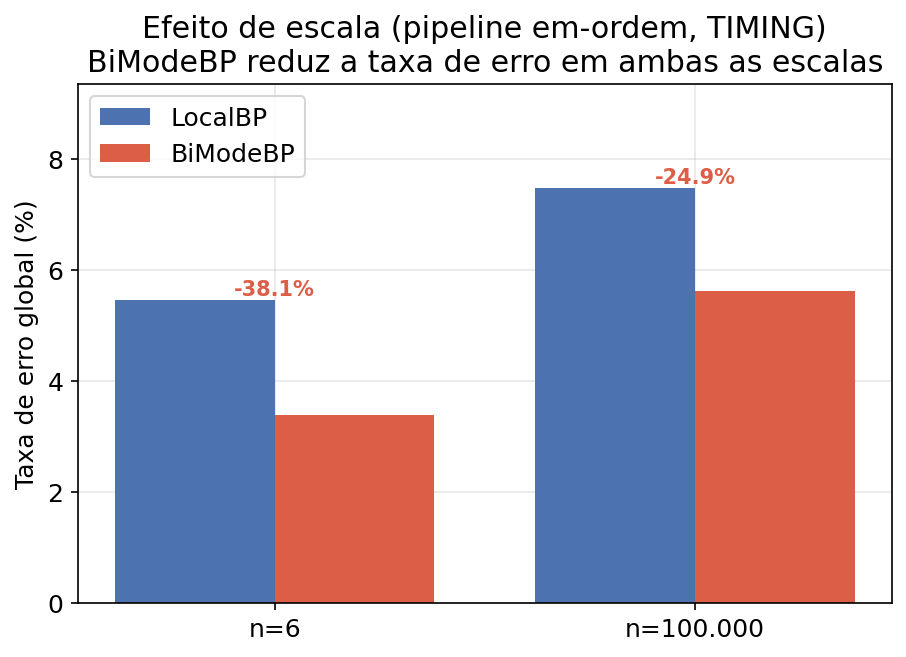
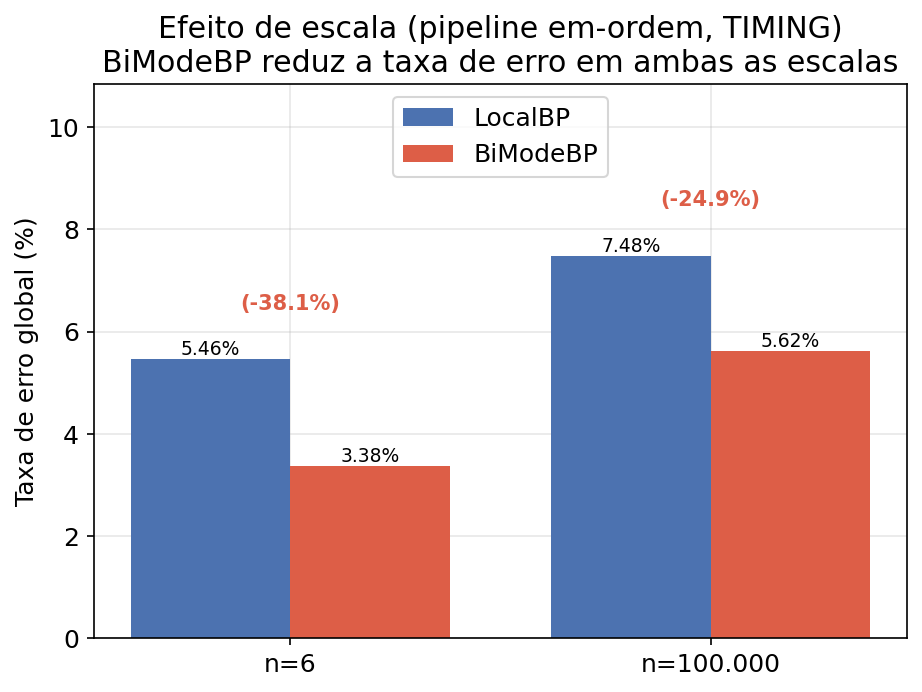
recreate per-metric in-order figures, restore 2-column slide layout
Regenerate volume_e_desvios.png, predicoes_incorretas.png, and
taxa_erro_precisao.png (previously dropped when comparacao_inorder.png
replaced them) using the already-collected in-order LocalBP/BiModeBP
stats.json, no new simulations needed. Add tempo_ipc_inorder.png,
recreating the old O3-based tempo_ipc_o3.png with correct in-order data:
simTicks and IPC are identical between predictors, since TIMING doesn't
model misprediction cycle cost.

Restore the Resultados slides to the original 2-column figure layout
using these granular figures instead of the single merged one, keeping
the deck at 21 total frames. Also fix the efeito_escala.png annotation
overlapping the legend, and add per-bar value labels via the shared
_grouped() helper.

Changed region(s): [[0.0, 0.0, 0.989, 0.9741]]

diff --git a/src/analysis/make_figures.py b/src/analysis/make_figures.py
@@ -102,6 +102,83 @@ def fig_inorder():
     _save(fig, "comparacao_inorder.png")
 
 
+def fig_volume():
+    """Volume: desvios avaliados e desvios DirectCond (EM-ORDEM, TIMING, n=6).
+
+    Recriação da antiga volume_e_desvios.png (que usava dados O3), agora com
+    os números em-ordem corretos.
+    """
+    fig, ax = plt.subplots(figsize=(7, 4.5))
+    _grouped(ax, ["Desvios avaliados\n(lookups)", "Desvios DirectCond"],
+             [LO.bp_lookups, LO.directcond_committed],
+             [BI.bp_lookups, BI.directcond_committed])
+    ax.set_ylabel("Quantidade")
+    ax.set_title("Volume de desvios avaliados (pipeline em-ordem, TIMING, n=6)\nidêntico para os dois preditores")
+    _save(fig, "volume_e_desvios.png")
+
+
+def fig_incorretas():
+    """Predições incorretas totais e erros em DirectCond (EM-ORDEM, TIMING, n=6).
+
+    Recriação da antiga predicoes_incorretas.png com dados em-ordem corretos.
+    """
+    fig, ax = plt.subplots(figsize=(7, 4.5))
+    _grouped(ax, ["Total de predições\nincorretas", "Erros em DirectCond"],
+             [LO.cond_incorrect, LO.directcond_mispredicted],
+             [BI.cond_incorrect, BI.directcond_mispredicted])
+    ax.set_ylabel("Quantidade de erros")
+    ax.set_ylim(0, LO.cond_incorrect * 1.3)
+    ax.set_title("Impacto nas predições incorretas (pipeline em-ordem, TIMING, n=6)")
+    _save(fig, "predicoes_incorretas.png")
+
+
+def fig_taxas():
+    """Taxa de erro global e em DirectCond, % (EM-ORDEM, TIMING, n=6).
+
+    Recriação da antiga taxa_erro_precisao.png com dados em-ordem corretos.
+    """
+    lo_g = LO.cond_incorrect / LO.bp_lookups * 100
+    bi_g = BI.cond_incorrect / BI.bp_lookups * 100
+    lo_dc = LO.directcond_mispredicted / LO.directcond_committed * 100
+    bi_dc = BI.directcond_mispredicted / BI.directcond_committed * 100
+    fig, ax = plt.subplots(figsize=(7, 4.5))
+    _grouped(ax, ["Taxa de erro\nglobal (%)", "Taxa de erro\nDirectCond (%)"],
+             [lo_g, lo_dc], [bi_g, bi_dc], fmt="{:.2f}")
+    ax.set_ylabel("Percentual (%)")
+    ax.set_ylim(0, max(lo_g, lo_dc, bi_g, bi_dc) * 1.3)
+    ax.set_title("Taxas de erro de predição (pipeline em-ordem, TIMING, n=6)")
+    _save(fig, "taxa_erro_precisao.png")
+
+
+def fig_tempo_ipc():
+    """simTicks e IPC reais (EM-ORDEM, TIMING, n=6). Recriação da antiga
+    tempo_ipc_o3.png, agora mostrando que ambos são IDÊNTICOS em-ordem —
+    o modelo TIMING não modela o efeito do preditor no tempo/IPC.
+    """
+    fig, (a1, a2) = plt.subplots(1, 2, figsize=(10, 5.2))
+    fig.suptitle("LocalBP vs. BiModeBP — pipeline em-ordem (TIMING, n=6)\n"
+                 "simTicks e IPC não variam com o preditor neste modelo",
+                 fontweight="bold", y=1.06)
+
+    ticks = [LO.sim_ticks / 1e6, BI.sim_ticks / 1e6]
+    b = a1.bar(["LocalBP", "BiModeBP"], ticks, color=[C_LOCAL, C_BIMODE])
+    for r, v in zip(b, ticks):
+        a1.annotate(f"{v:.2f}M", (r.get_x() + r.get_width() / 2, v), ha="center", va="bottom")
+    a1.set_title("Tempo total de simulação\nvariação: 0% (idêntico)")
+    a1.set_ylabel("simTicks (milhões)")
+    a1.set_ylim(0, max(ticks) * 1.2)
+
+    ipc = [LO.ipc, BI.ipc]
+    b = a2.bar(["LocalBP", "BiModeBP"], ipc, color=[C_LOCAL, C_BIMODE])
+    for r, v in zip(b, ipc):
+        a2.annotate(f"{v:.3f}", (r.get_x() + r.get_width() / 2, v), ha="center", va="bottom")
+    a2.set_title("IPC (simInsts / numCycles)\nvariação: 0% (idêntico)")
+    a2.set_ylabel("IPC")
+    a2.set_ylim(0, max(ipc) * 1.2)
+    fig.tight_layout()
+    _save(fig, "tempo_ipc_inorder.png")
+
+
 def fig_escala():
     """Efeito de escala (EM-ORDEM, TIMING): n=6 vs. n=100.000.
 
@@ -116,27 +193,29 @@ def fig_escala():
     bi_rate = [BI.cond_incorrect / BI.bp_lookups * 100,
                BI_100K.cond_incorrect / BI_100K.bp_lookups * 100]
 
-    fig, ax = plt.subplots(figsize=(7, 4.5))
+    fig, ax = plt.subplots(figsize=(7, 4.8))
+    _grouped(ax, labels, lo_rate, bi_rate, fmt="{:.2f}%")
+    ax.set_ylabel("Taxa de erro global (%)")
+    ax.set_ylim(0, max(lo_rate + bi_rate) * 1.45)
+    ax.set_title("Efeito de escala (pipeline em-ordem, TIMING)\nBiModeBP reduz a taxa de erro em ambas as escalas")
+    ax.legend(loc="upper center")
+
     x = np.arange(len(labels))
-    w = 0.38
-    ax.bar(x - w / 2, lo_rate, w, label="LocalBP", color=C_LOCAL)
-    ax.bar(x + w / 2, bi_rate, w, label="BiModeBP", color=C_BIMODE)
     for i in range(len(labels)):
         var = (bi_rate[i] - lo_rate[i]) / lo_rate[i] * 100
-        ax.annotate(f"{var:+.1f}%", (x[i], max(lo_rate[i], bi_rate[i])),
+        ax.annotate(f"({var:+.1f}%)", (x[i], max(lo_rate[i], bi_rate[i])),
+                    xytext=(0, 22), textcoords="offset points",
                     ha="center", va="bottom", fontweight="bold", color=C_BIMODE, fontsize=10)
-    ax.set_xticks(x)
-    ax.set_xticklabels(labels)
-    ax.set_ylabel("Taxa de erro global (%)")
-    ax.set_ylim(0, max(lo_rate + bi_rate) * 1.25)
-    ax.set_title("Efeito de escala (pipeline em-ordem, TIMING)\nBiModeBP reduz a taxa de erro em ambas as escalas")
-    ax.legend()
     _save(fig, "efeito_escala.png")
 
 
 def main():
     print(f"Gerando figuras em {os.path.relpath(FIG_DIR, ROOT)}/")
     fig_inorder()
+    fig_volume()
+    fig_incorretas()
+    fig_taxas()
+    fig_tempo_ipc()
     fig_escala()
     print("Concluído.")
 

diff --git a/trabalho_latex/apresentacao.tex b/trabalho_latex/apresentacao.tex
@@ -261,25 +261,29 @@
 % ====================================================================
 \section{Resultados}
 
-\begin{frame}{Resultados --- erros de predição ($n=6$, pipeline em-ordem)}
-  \centering
-  \includegraphics[width=0.9\textwidth]{comparacao_inorder.png}
+\begin{frame}{Resultados --- volume e erros de predição ($n=6$, em-ordem)}
+  \begin{columns}[c]
+    \column{0.5\textwidth}\centering
+      \includegraphics[width=\textwidth]{volume_e_desvios.png}
+    \column{0.5\textwidth}\centering
+      \includegraphics[width=\textwidth]{predicoes_incorretas.png}
+  \end{columns}
   \par\smallskip\small O total de desvios avaliados é idêntico (30.992) ---
   o BiModeBP reduz as predições incorretas em $\sim$38\%, concentrado nos
   desvios condicionais diretos (\texttt{DirectCond}) de \texttt{heapify}.
 \end{frame}
 
-\begin{frame}{Resultados --- por que o tempo não muda?}
-  \begin{itemize}
-    \item O pipeline \textbf{em-ordem (TIMING)} mede corretamente \emph{quantos}
-          erros de predição ocorrem.
-    \item Porém esse modelo \textbf{não aplica penalidade de ciclos} por
-          \emph{misprediction} --- não há \emph{flush} especulativo a custar tempo.
-    \item Por isso o \texttt{simTicks} é \textbf{idêntico} entre LocalBP e
-          BiModeBP, mesmo com 38\% menos erros.
-    \item O ganho do BiModeBP, neste modelo, é de \textbf{precisão}, não de
-          tempo de execução simulado.
-  \end{itemize}
+\begin{frame}{Resultados --- taxas de erro e por que o tempo não muda}
+  \begin{columns}[c]
+    \column{0.5\textwidth}\centering
+      \includegraphics[width=\textwidth]{taxa_erro_precisao.png}
+    \column{0.5\textwidth}\centering
+      \includegraphics[width=\textwidth]{tempo_ipc_inorder.png}
+  \end{columns}
+  \par\smallskip\small O pipeline em-ordem mede \emph{quantos} erros ocorrem,
+  mas não aplica penalidade de ciclos por \emph{misprediction}: \texttt{simTicks}
+  e IPC ficam idênticos entre os preditores --- o ganho do BiModeBP aqui é de
+  \textbf{precisão}, não de tempo simulado.
 \end{frame}
 
 \begin{frame}{Resultados --- tabela comparativa ($n=6$, CPU TIMING)}